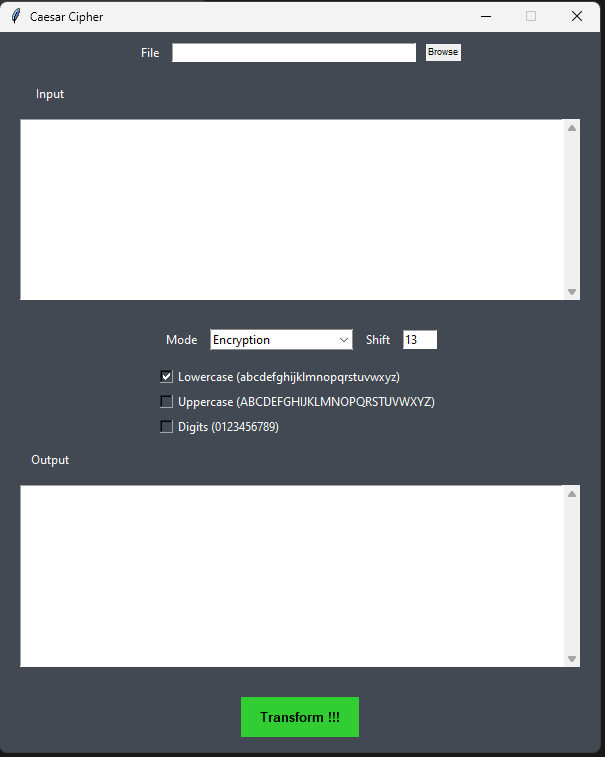
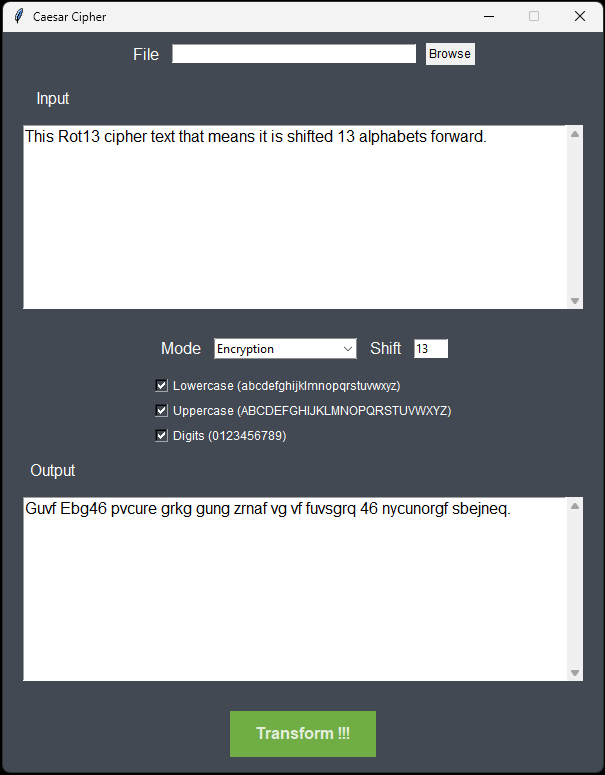
updated

diff --git a/PRODIGY_CS_01 Caesar Cipher/caesar_cipher.py b/PRODIGY_CS_01 Caesar Cipher/caesar_cipher.py
@@ -84,7 +84,7 @@ def save_output(output_text, output_file_path):
 #  GUI window
 root = tk.Tk()
 root.title("Caesar Cipher")
-root.geometry("600x720")
+root.geometry("600x740")
 root.resizable(False, False)
 
 root.configure(bg='#424952')
@@ -124,7 +124,7 @@ input_frame.pack(fill=tk.BOTH, expand=True, padx=20, pady=15)
 input_scrollbar = tk.Scrollbar(input_frame)
 input_scrollbar.pack(side=tk.RIGHT, fill=tk.Y)
 
-input_text = tk.Text(input_frame, height=10, wrap=tk.WORD, yscrollcommand=input_scrollbar.set)
+input_text = tk.Text(input_frame,font=("Arial"), height=10, wrap=tk.WORD, yscrollcommand=input_scrollbar.set)
 input_text.pack(fill=tk.BOTH, expand=True)
 
 input_scrollbar.config(command=input_text.yview)
@@ -169,7 +169,7 @@ output_frame.pack(fill=tk.BOTH, expand=True, padx=20, pady=15)
 output_scrollbar = tk.Scrollbar(output_frame)
 output_scrollbar.pack(side=tk.RIGHT, fill=tk.Y)
 
-output_text = tk.Text(output_frame, height=10, wrap=tk.WORD, yscrollcommand=output_scrollbar.set)
+output_text = tk.Text(output_frame, height=10,font=("Arial"), wrap=tk.WORD, yscrollcommand=output_scrollbar.set)
 output_text.pack(fill=tk.BOTH, expand=True)
 
 output_scrollbar.config(command=output_text.yview)
